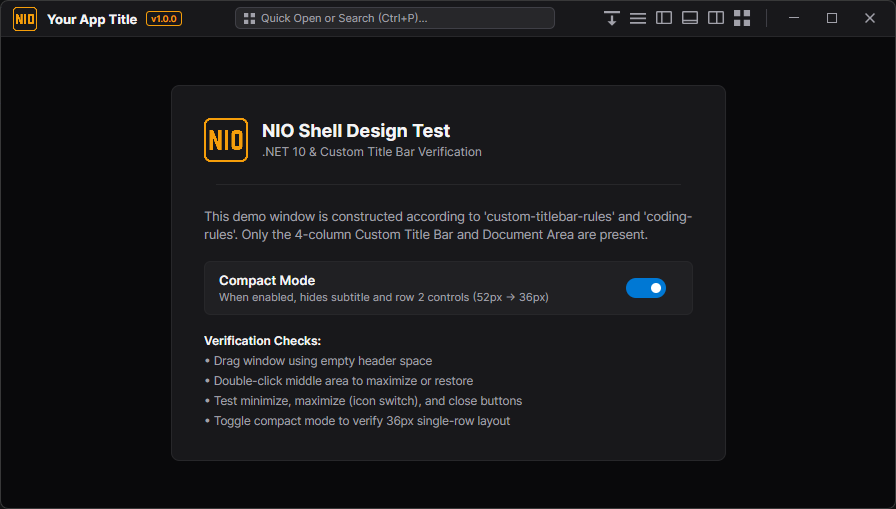
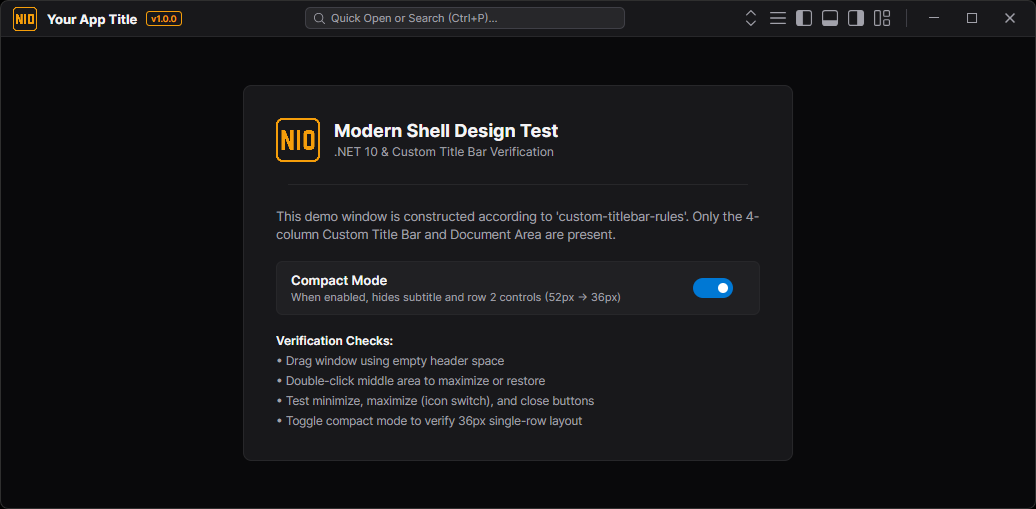
docs: update screenshots and add VS Code Codicons attribution to README

diff --git a/README.md b/README.md
@@ -42,6 +42,8 @@ Optimized for maximum screen real estate (e.g., laptop screens or dense workflow
   - Fully decoupled using `DynamicResource` tokens. Adapts instantly to theme switches without control reload.
 - **Zero Hardcoded Magic Strings:**
   - Fully compatible with dynamic localization markup extensions (`LocExtension`) or standard MVVM data bindings.
+- **VS Code-Style Vector Iconography:**
+  - Action and layout icons are adapted from [microsoft/vscode-codicons](https://github.com/microsoft/vscode-codicons) with 1px hairline rendering and zero external runtime dependencies.
 
 ---
 
@@ -189,6 +191,12 @@ cd avalonia-custom-titlebar
 # Run the demo app
 dotnet run --project src/TitleBarDemo/TitleBarDemo.csproj
 ```
+
+---
+
+## 🙏 Credits & Iconography Attribution
+
+The action and workbench layout vector geometries used in the demo shell are adapted from the open-source [Microsoft VS Code Codicons](https://github.com/microsoft/vscode-codicons) library (licensed under [CC-BY-4.0](https://github.com/microsoft/vscode-codicons/blob/main/LICENSE)) to achieve visual parity and styling consistent with Visual Studio Code's desktop shell.
 
 ---
 
